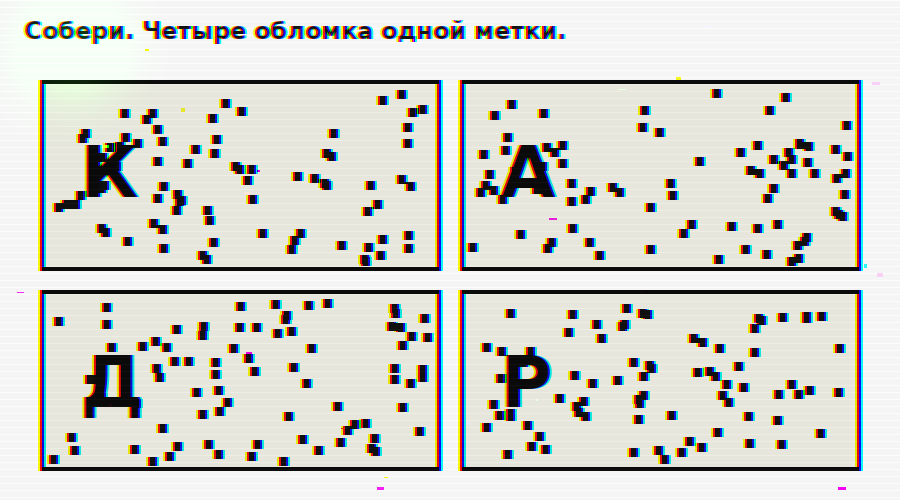
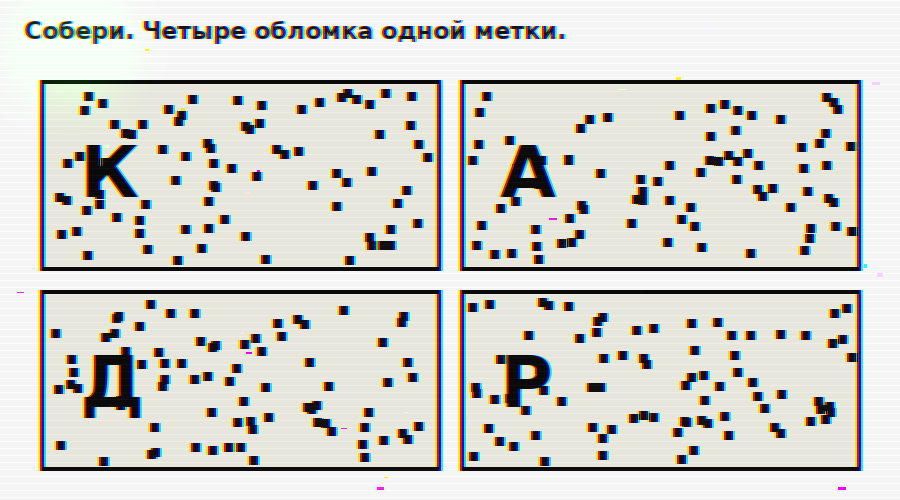
Скучный пролог Жени с лёгкими шифрами и перехватом ARGVS 25–100%.
Картинки сильнее битые: дыры, выпавшие строки, как после потери пакетов.

diff --git a/tools/make_quest_assets.py b/tools/make_quest_assets.py
@@ -615,7 +615,7 @@ def make_n6():
     d.text((36, 460), vig_c, fill=(240, 220, 120), font=font(56))
     d.text((36, 560), "Алфавит везде один: 32 буквы, без Ё.", fill=(110, 110, 120), font=font(20))
     # null cipher telestich as extra confirmation of ПОРТАЛ? skip to not leak
-    img.save(OUT / "n6_locks.png")
+    hack_glitch(img, seed=61).save(OUT / "n6_locks.png")
 
     print(f"  N6  A1Z26 of atbash(АТБАШ)={step1_c} → {nums}")
     print(f"  N6  atbash → {step1_plain}")

diff --git a/doc/QUEST_WALKTHROUGH.md b/doc/QUEST_WALKTHROUGH.md
@@ -18,8 +18,10 @@
    `zengame.siq` в `.zip`, распакуй, открой `START.txt`.
 3. В `START.txt` два блока Base64. Второй декодируется в **`ARGUS1001`**.
 4. Боту: `/start ARGUS1001`.
-5. Сначала говорит **Женя** (приветствие + «напиши ГОТОВ»). Потом линия
-   перехватывается ARGVS → хаб.
+5. Сначала скучный квест Жени (Цезарь +1 `РСЙГЖУ`→ПРИВЕТ, 4-1→ДА,
+   ТОК→КОТ, Цезарь `ТУБСУ`→СТАРТ, морзе `-.. .-`→ДА). Между ними ARGVS
+   лезет в канал (25/50/75/100%), Женя пытается чинить. На 100% —
+   перехват → хаб.
 6. Без `HOST_CONSOLE`: ты жмёшь «Запустить». С `HOST_CONSOLE=1` гейт открывается сам.
 
 ---
